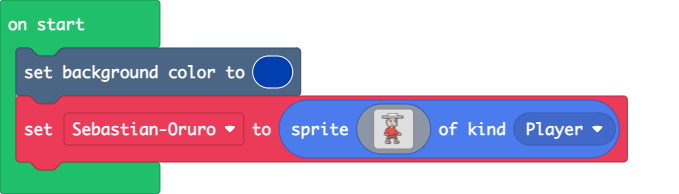
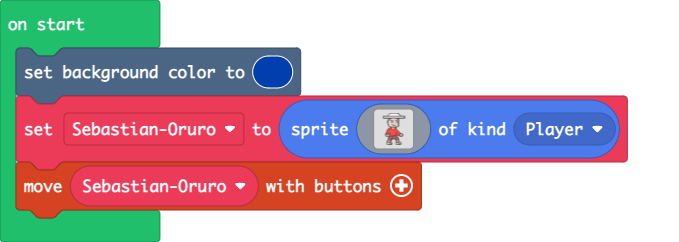
Update main.blocks, main.ts

diff --git a/main.ts b/main.ts
@@ -1,58 +1,57 @@
 scene.setBackgroundColor(8)
 let SebastianOruro = sprites.create(img`
-    ...............fffffffffffffff................
-    ...............f1111111111111f................
-    ..............f111111111111111f...............
-    .............f11111111111111111f..............
-    ............f1111111111111111111f.............
-    ....ffffffffffffffffffffffffffffffffffff......
-    ....f1111111111111111111111111111111111f......
-    ....f1111111111111111111111111111111111f......
-    ....ffffffffffffffffffffffffffffffffffff......
-    .............feeeeeddddddeeeef................
-    .............feeeddddddddddeef................
-    .............feddddddddddddddf................
-    .............fddfffffdddffffdf................
-    ...........fffdd1b11bddd1b1bdf................
-    ...........fdddd1eeefddd1eefdf................
-    ...........fdddd1eeefddd1eefdf................
-    ...........ffddddddddddddddddf................
-    ............fddddddddddddddddf................
-    ............fddddddddddddddddf................
-    ............ffdddddfdddddddddf................
-    .............fddddddfffffddddf................
-    .............fdddddddddddddddf................
-    ..............ffddddddddddfff.................
-    ................ffffffffff....................
-    ...............f22f5555f2f....................
-    ...............f22f5555f2f....................
-    ............ffff222f55f22f....................
-    ...........f22222222ff2222f...................
-    ...........f222222222222222f..................
-    ..........f22222222222222222f.................
-    ..........f222222222222222222f................
-    ..........f2222222222222222222f...............
-    .........ff22222222222222f22222f..............
-    .........f22222f2222222222f22222f.............
-    ........ff2222ff2222222222f22222ffff..........
-    ........ffffff.f22222222222f222fddddf.........
-    ........fddddd.f222222222222f22fddddf.........
-    ........fdddddf2222222ffffff.fffddddf.........
-    .........ffff.ffffffffeeeeeef...ffff..........
-    .............feeeeeeeeeeeeeef.................
-    .............feeeeeeeeeeeeeef.................
-    .............feeeeeeeeeeeeeef.................
-    ............feeeeeffffffeeeeef................
-    ............feeeeef.....feeeef................
-    ............feeeeff.....ffeeef................
-    ...........feeeef.........fddf................
-    ...........fddddf.........fddf................
-    ...........fddddf.........fdddf...............
-    ..........ffffffff.......fffffdff.............
-    ..........fdddeeddf......fddeeeddf............
-    ..........fddddeedf......fdddeeedf............
-    ..........fddddeeef......fddddeff.............
-    ...........fffffff........fffff...............
-    ..............................................
-    ..............................................
+    ...............fffffffffffffff............
+    ...............f1111111111111f............
+    ..............f111111111111111f...........
+    .............f11111111111111111f..........
+    ............f1111111111111111111f.........
+    ....ffffffffffffffffffffffffffffffffffff..
+    ....f1111111111111111111111111111111111f..
+    ....f1111111111111111111111111111111111f..
+    ....ffffffffffffffffffffffffffffffffffff..
+    .............feeeeeddddddeeeef............
+    .............feeeddddddddddeef............
+    .............feddddddddddddddf............
+    .............fddfffffdddffffdf............
+    ...........fffdd1b11bddd1b1bdf............
+    ...........fdddd1eeefddd1eefdf............
+    ...........fdddd1eeefddd1eefdf............
+    ...........ffddddddddddddddddf............
+    ............fddddddddddddddddf............
+    ............fddddddddddddddddf............
+    ............ffdddddfdddddddddf............
+    .............fddddddfffffddddf............
+    .............fdddddddddddddddf............
+    ..............ffddddddddddfff.............
+    ................ffffffffff................
+    ...............f22f5555f2f................
+    ...............f22f5555f2f................
+    ............ffff222f55f22f................
+    ...........f22222222ff2222f...............
+    ...........f222222222222222f..............
+    ..........f22222222222222222f.............
+    ..........f222222222222222222f............
+    ..........f2222222222222222222f...........
+    .........ff22222222222222f22222f..........
+    .........f22222f2222222222f22222f.........
+    ........ff2222ff2222222222f22222ffff......
+    ........ffffff.f22222222222f222fddddf.....
+    ........fddddd.f22222222222.f22fddddf.....
+    ........fdddddf2222222fffff..fffddddf.....
+    .........ffff.ffffffffeeeef.....ffff......
+    .............feeeeeeeeeeeeef..............
+    .............feeeeeeeeeeeeeef.............
+    .............feeeeeeeeeeeeeef.............
+    ............feeeeeffffffeeeeef............
+    ............feeeeef.....feeeef............
+    ............feeeeff.....ffeeef............
+    ...........feeeef.........fddf............
+    ...........fddddf.........fddf............
+    ...........fddddf.........fdddf...........
+    ..........ffffffff.......fffffdff.........
+    ..........fdddeeddf......fddeeeddf........
+    ..........fddddeedf......fdddeeedf........
+    ..........fddddeeef......fddddeedf........
+    ...........fffffff........fffffff.........
     `, SpriteKind.Player)
+controller.moveSprite(SebastianOruro)
